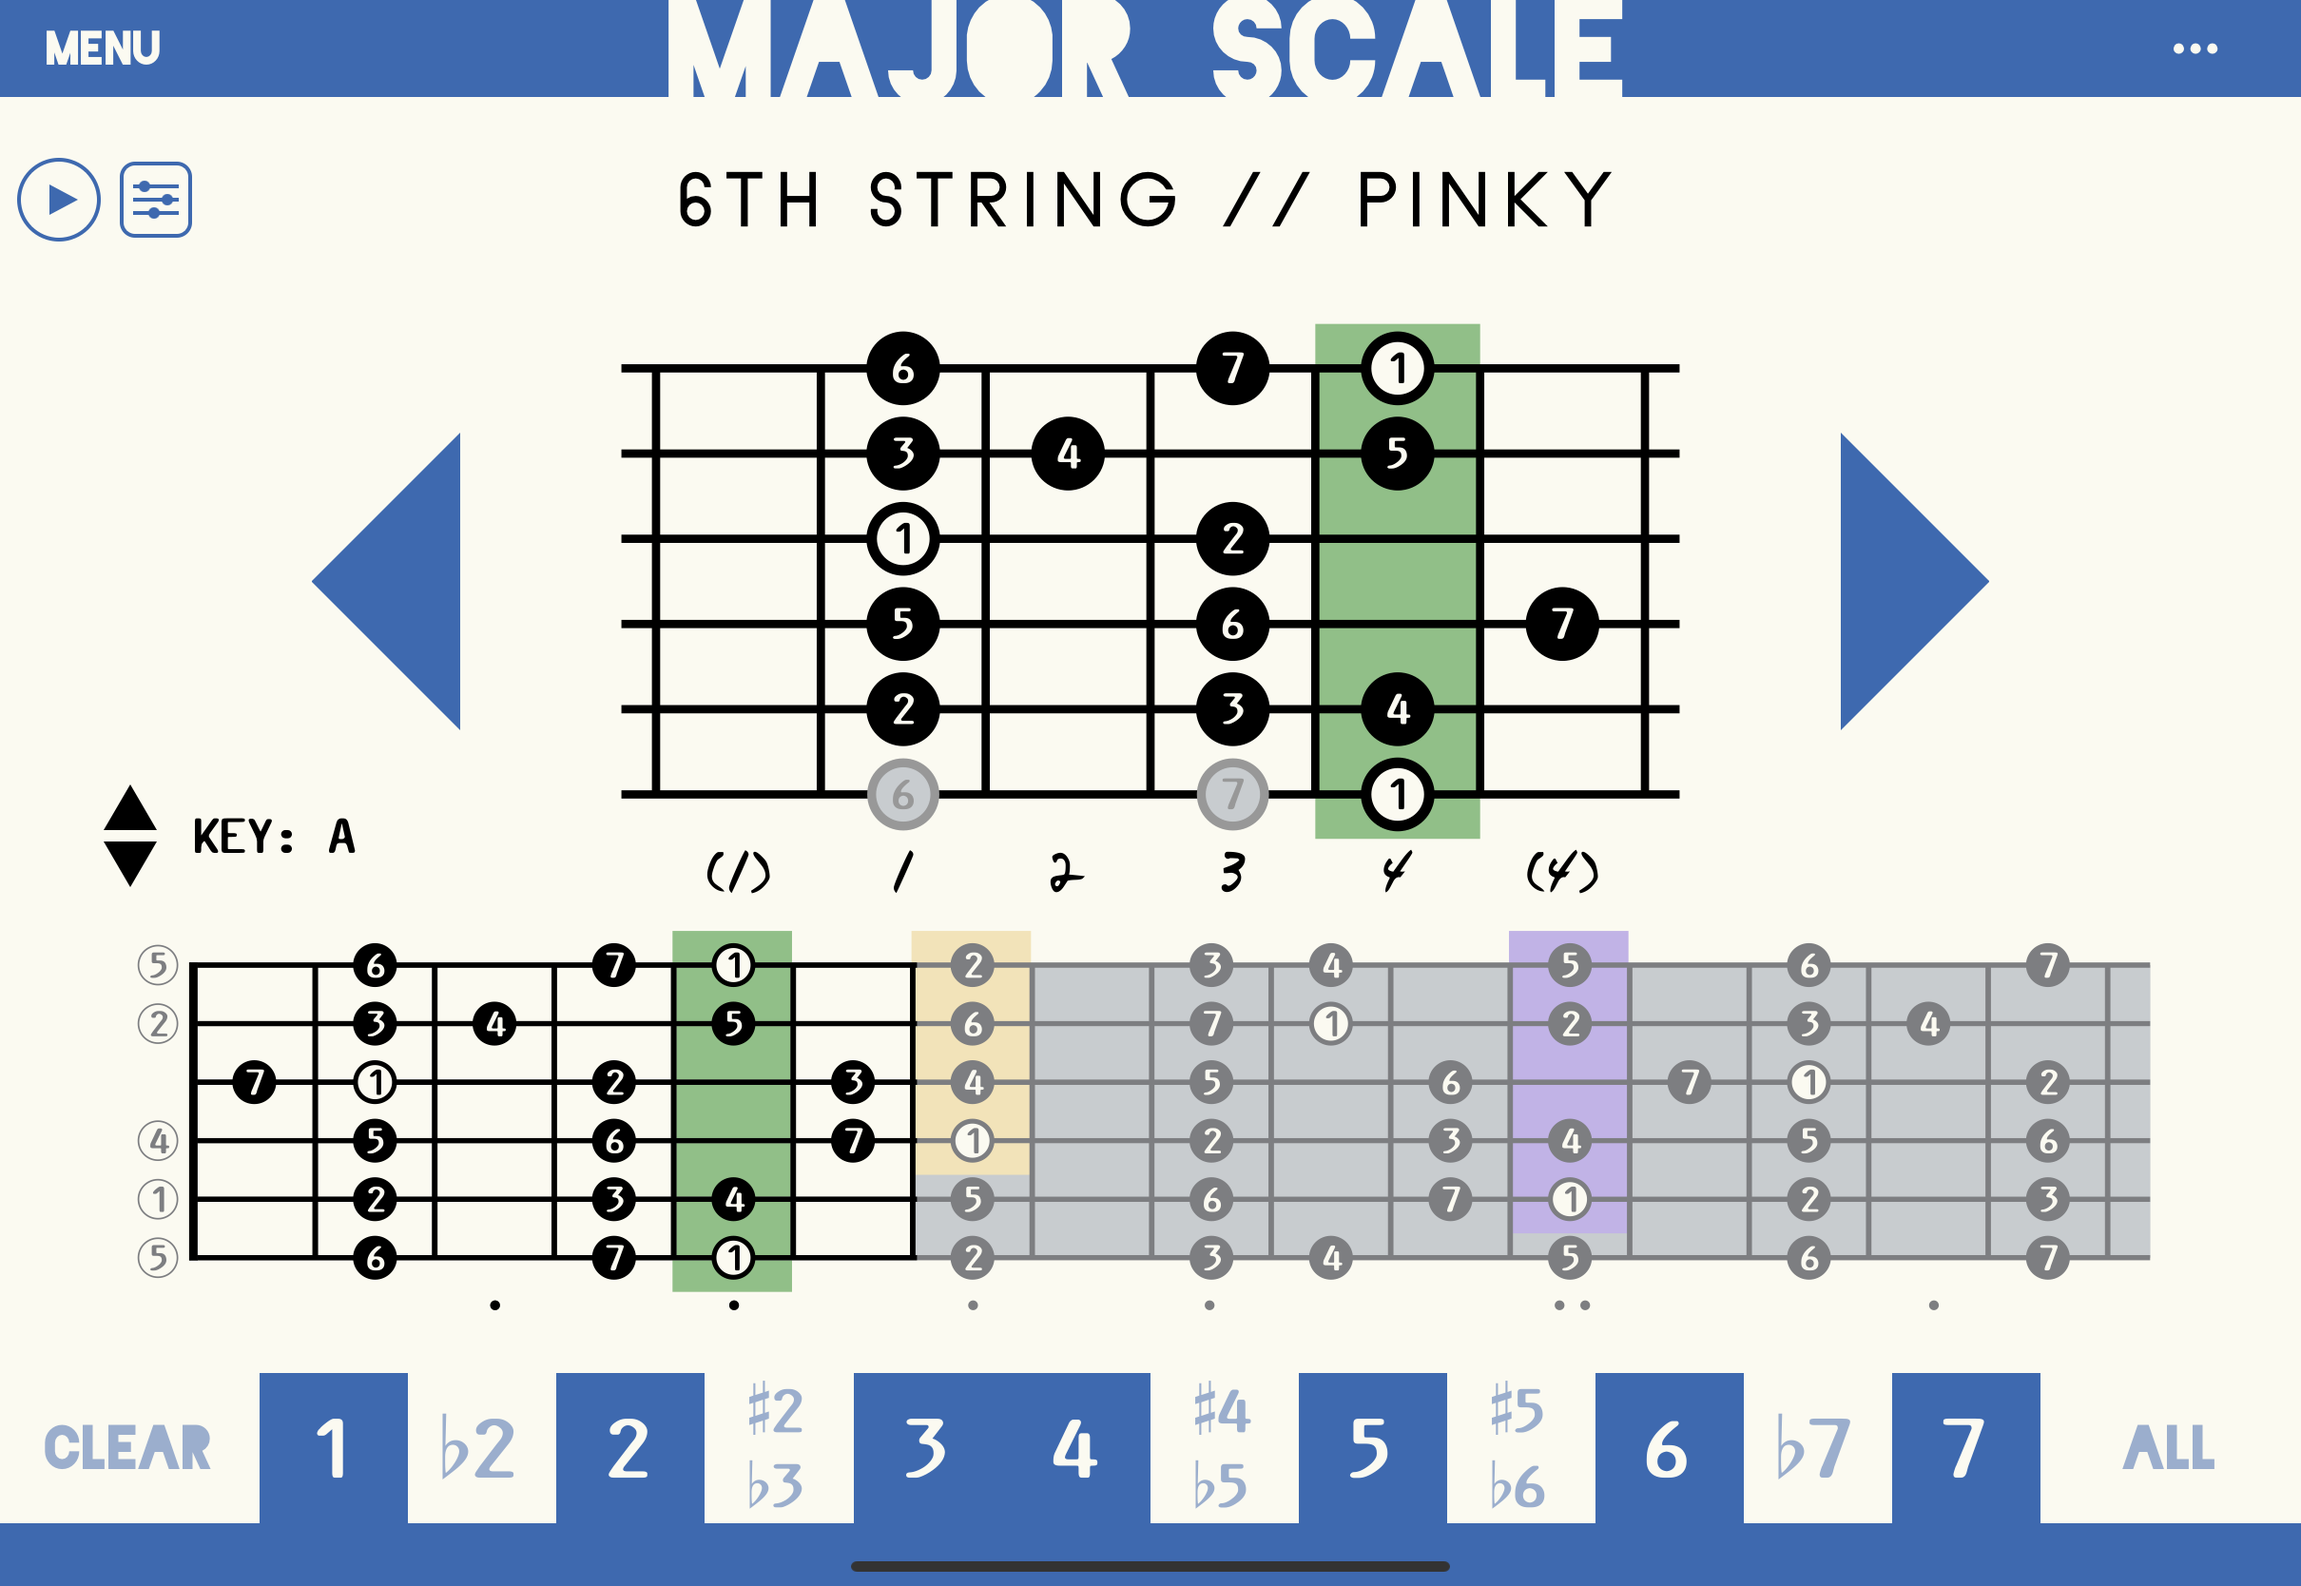
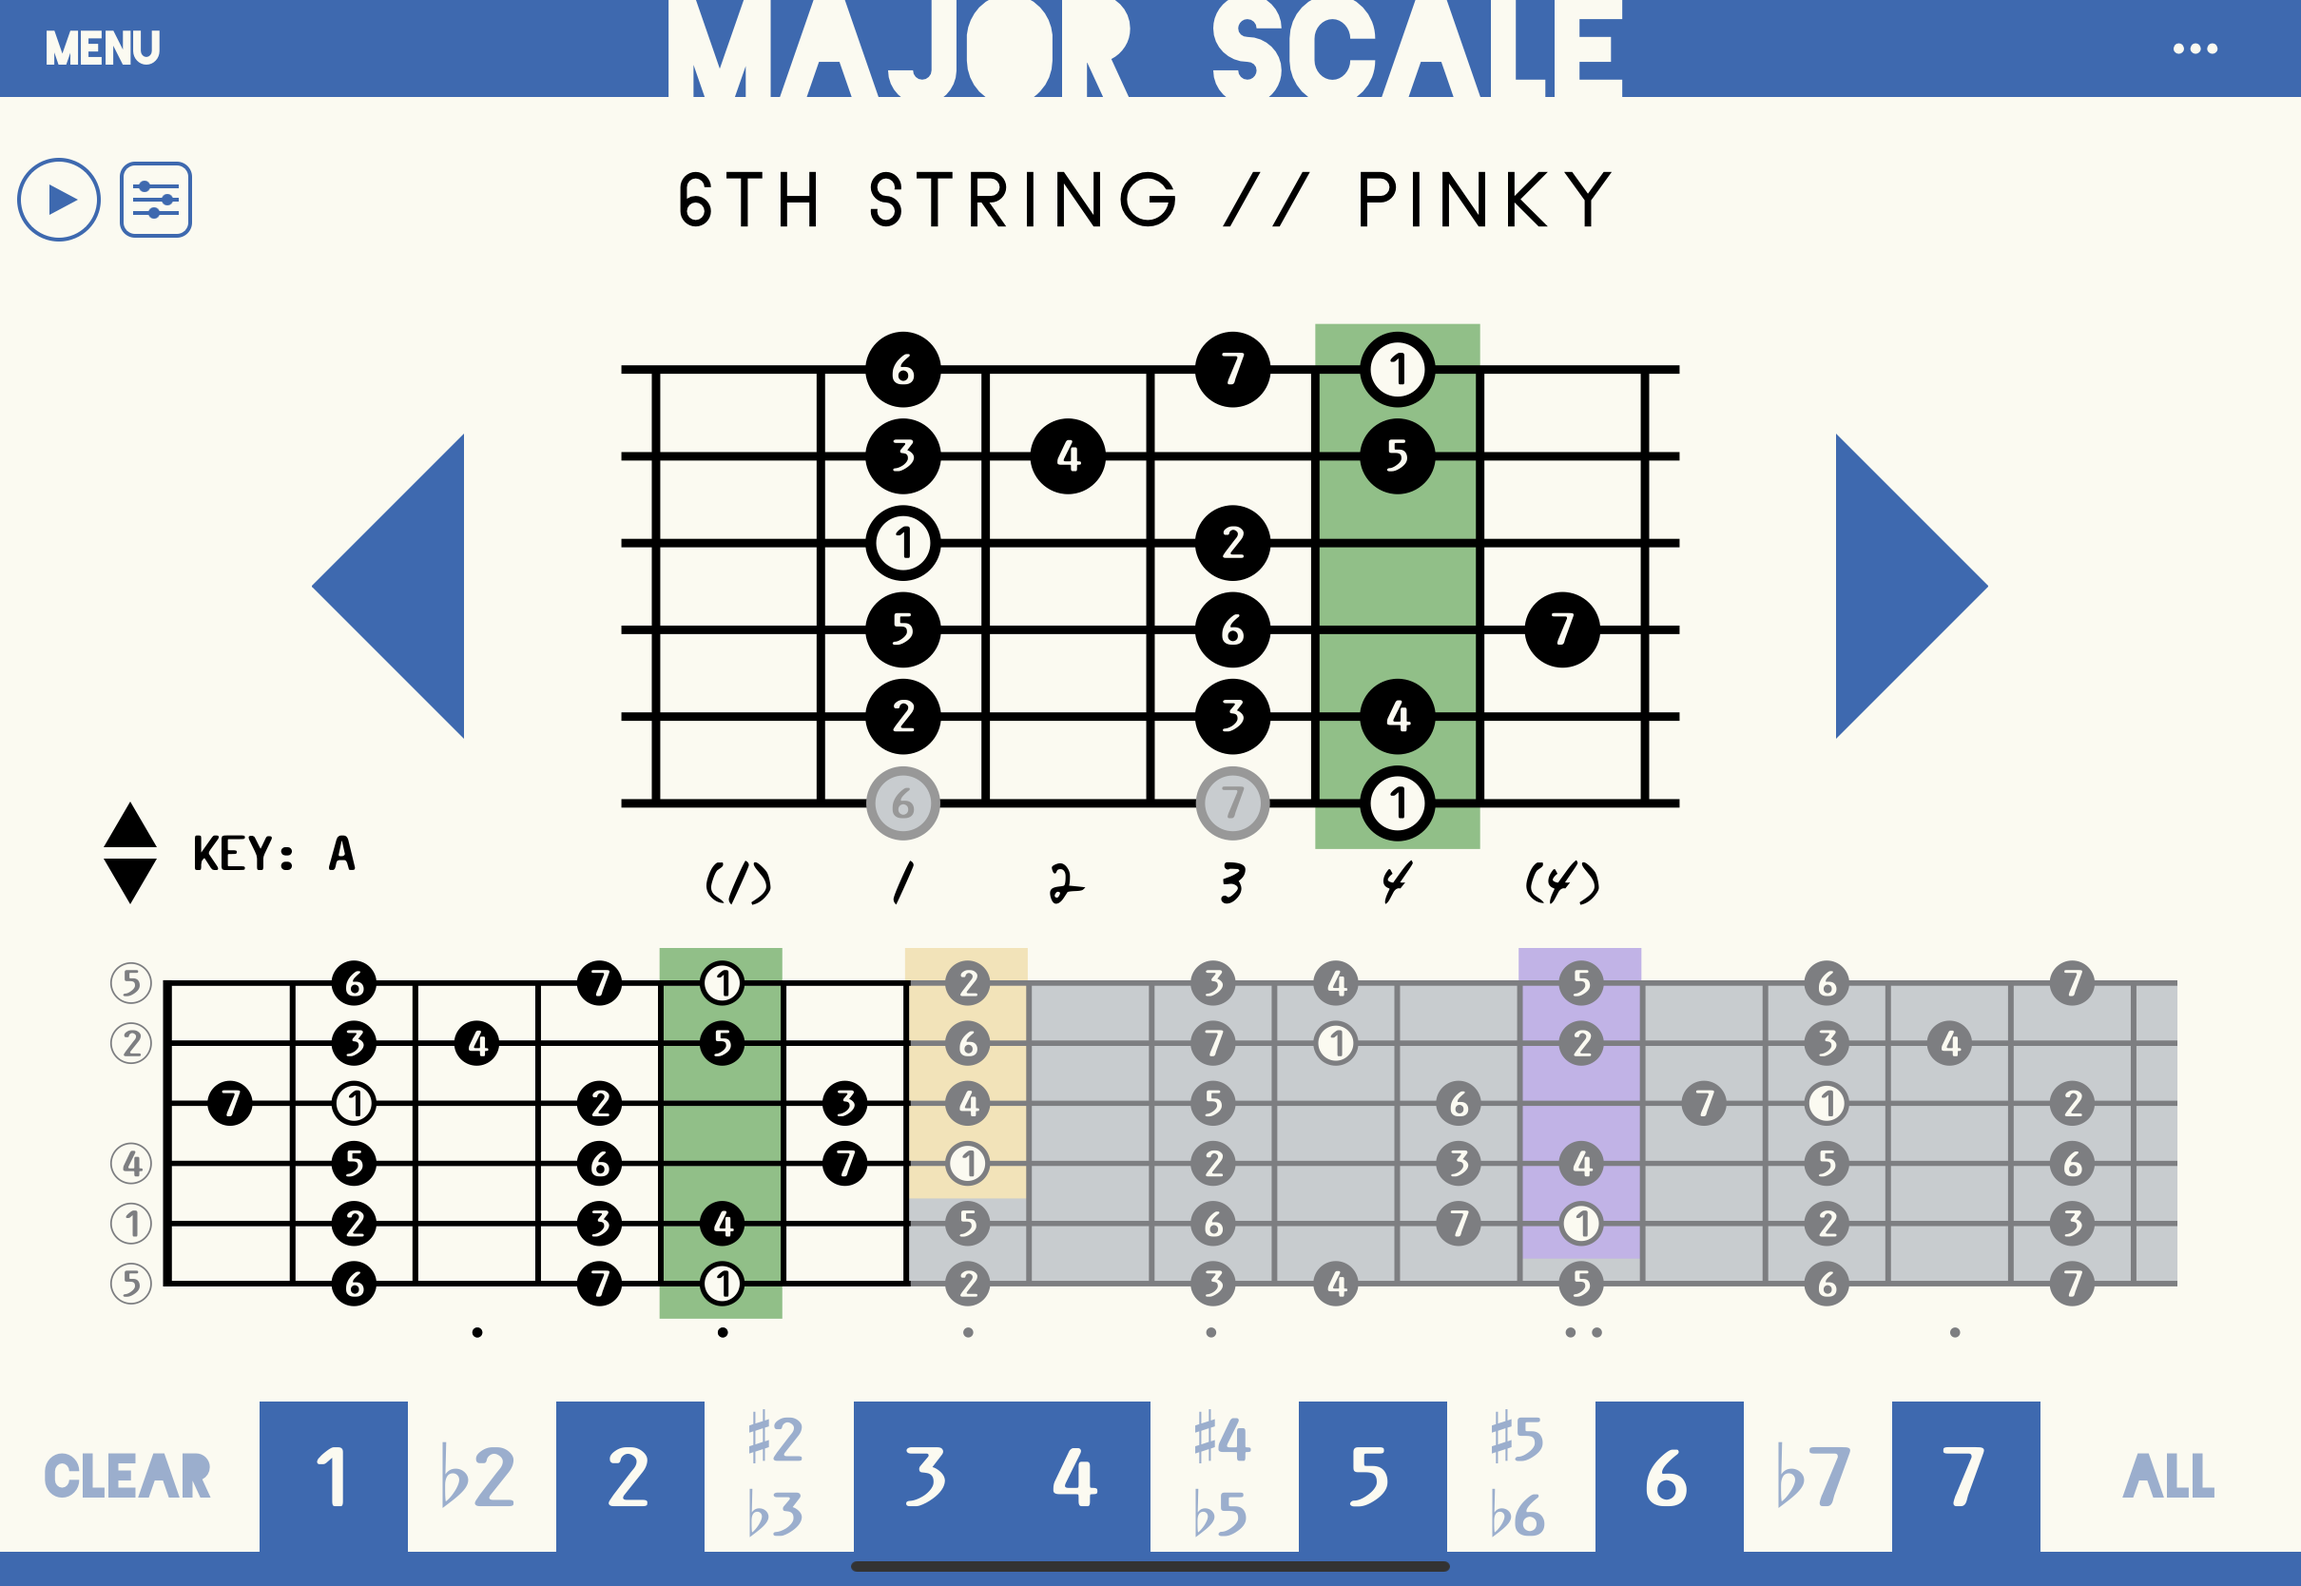
Tighten iPad footer clearance above home indicator

diff --git a/Store.js b/Store.js
@@ -37,9 +37,9 @@ export const StoreProvider = ({ children }) => {
   const insets = sections.body;
   const navigationInsets = sections.navigation;
   const footerInsets = sections.footer;
-  // Extend the footer's blue baseline behind the iPad home indicator while
-  // keeping its buttons and cream edge above that system gesture area.
-  const footerBottomInset = Platform.OS === "ios" && Platform.isPad ? fallbackInsets.bottom : 0;
+  // Keep a thin blue band around the iPad indicator rather than reserving its
+  // entire gesture zone. The existing 8-point footer border counts toward it.
+  const footerBottomInset = Platform.OS === "ios" && Platform.isPad ? Math.max(0, Math.min(18, fallbackInsets.bottom) - 8) : 0;
   const overlayInsets = sections.overlay;
 
   const value = useMemo(() => ({

diff --git a/REQUIREMENTS.md b/REQUIREMENTS.md
@@ -112,7 +112,7 @@ Native device timing, pitch shifting, and layout still require device listening/
 - Size the app from the current window rather than the physical display. Keep Android tablet windows upright in landscape, portrait, split-screen and floating-window shapes. Use the shared tablet view while at least 1000 × 550 logical points are available; switch to the existing compact practice view when space is tighter.
 - Center a landscape practice canvas in tall windows, using at most a 4:3 aspect ratio. Fit very small windows by scaling a minimum 568 × 320 compact canvas. Keep the footer, overlays, sliders and scroll gestures in that same coordinate system; preserve practice selection during resizing.
 - Keep caption/status/navigation bars clear of the Android tablet canvas. Request native landscape in ordinary full-screen tablet mode, portrait on phones, and let the system control orientation during Android multi-window use. Device class comes from the display, not a temporarily small window. Android/Samsung may override orientation requests in desktop or large-screen modes.
-- Main tablet layouts, position selection, bass geometry and audio settings are shared between iPad and Android tablets. Only phones use a portrait native shell with a clockwise-rotated interface. Restore iPad to native Landscape Right with no JavaScript rotation; use native vertical scrolling and ordinary horizontal slider gestures. Keep the iPad canvas full height and extend the blue footer background to the screen bottom behind the home indicator. Place the footer buttons and its cream-to-blue horizontal edge above that gesture area, using the actual mapped bottom safe inset. Keep iPad full-screen for now; windowed-app support remains a separate multitasking change requiring device verification. Use native iPad device identity rather than current window size to choose its shell. Native orientation masks must preserve phone portrait/iPad landscape separately, without a global Expo startup override.
+- Main tablet layouts, position selection, bass geometry and audio settings are shared between iPad and Android tablets. Only phones use a portrait native shell with a clockwise-rotated interface. Restore iPad to native Landscape Right with no JavaScript rotation; use native vertical scrolling and ordinary horizontal slider gestures. Keep the iPad canvas full height and extend the blue footer background to the screen bottom behind the home indicator. Place the footer buttons and its cream-to-blue horizontal edge above that gesture area, using a thin blue band capped at 18 points within the mapped bottom safe inset, counting the existing eight-point baseline toward that clearance. Keep iPad full-screen for now; windowed-app support remains a separate multitasking change requiring device verification. Use native iPad device identity rather than current window size to choose its shell. Native orientation masks must preserve phone portrait/iPad landscape separately, without a global Expo startup override.
 
 - Allocate tablet body space between the position title, zoom neck and full-neck overview after reserving the header/footer. Preserve neck proportions in wide, short windows instead of letting fixed offsets overlap navigation. The overview may become narrower to fit vertically.
 - Apply the same available-body sizing on phones: reserve the fixed title/key/audio row and footer before sizing full or zoomed necks. Use a short key label in extremely narrow windows; keep both overview/zoom headers anchored consistently.

diff --git a/TESTING.md b/TESTING.md
@@ -432,3 +432,9 @@ Before release, listen on bundled iOS and Android builds and the Expo Audio fall
 - Refine the full-height iPad footer: keep blue extending to the screen bottom and raise its cream-to-blue horizontal edge and buttons above the actual mapped home-indicator inset. Reserve that height in the neck body budget and align the open scale menu with the raised footer. Keep the title/audio row at its existing position.
 - This changes only native iPad footer content clearance; phone and Android layouts retain their existing geometry. The app canvas, popover and splash still use the full viewport.
 - All 163 tests, production web export and bundled iOS/Android Release builds pass. Native iPad verification shows a continuous blue band behind the home indicator and complete footer labels: `docs/pr-51/ipad-blue-home-indicator.png`. The open scale menu ends at the raised footer; closing it restores the practice view. All six test devices installed and launched successfully.
+
+
+### Tighter iPad home-indicator clearance — October 9
+
+- Cap the blue home-indicator band at 18 points within the mapped bottom safe inset, counting the existing eight-point footer border toward that height. This lowers the buttons/cream edge while preserving a small visible gap above the home indicator and the full-height canvas. The neck body and scale-menu boundary use that same reduced reservation.
+- All 163 tests and the bundled iOS Release build pass. Native iPad verification confirms the thinner band and clear buttons; proof: `docs/pr-51/ipad-blue-home-indicator.png`.
